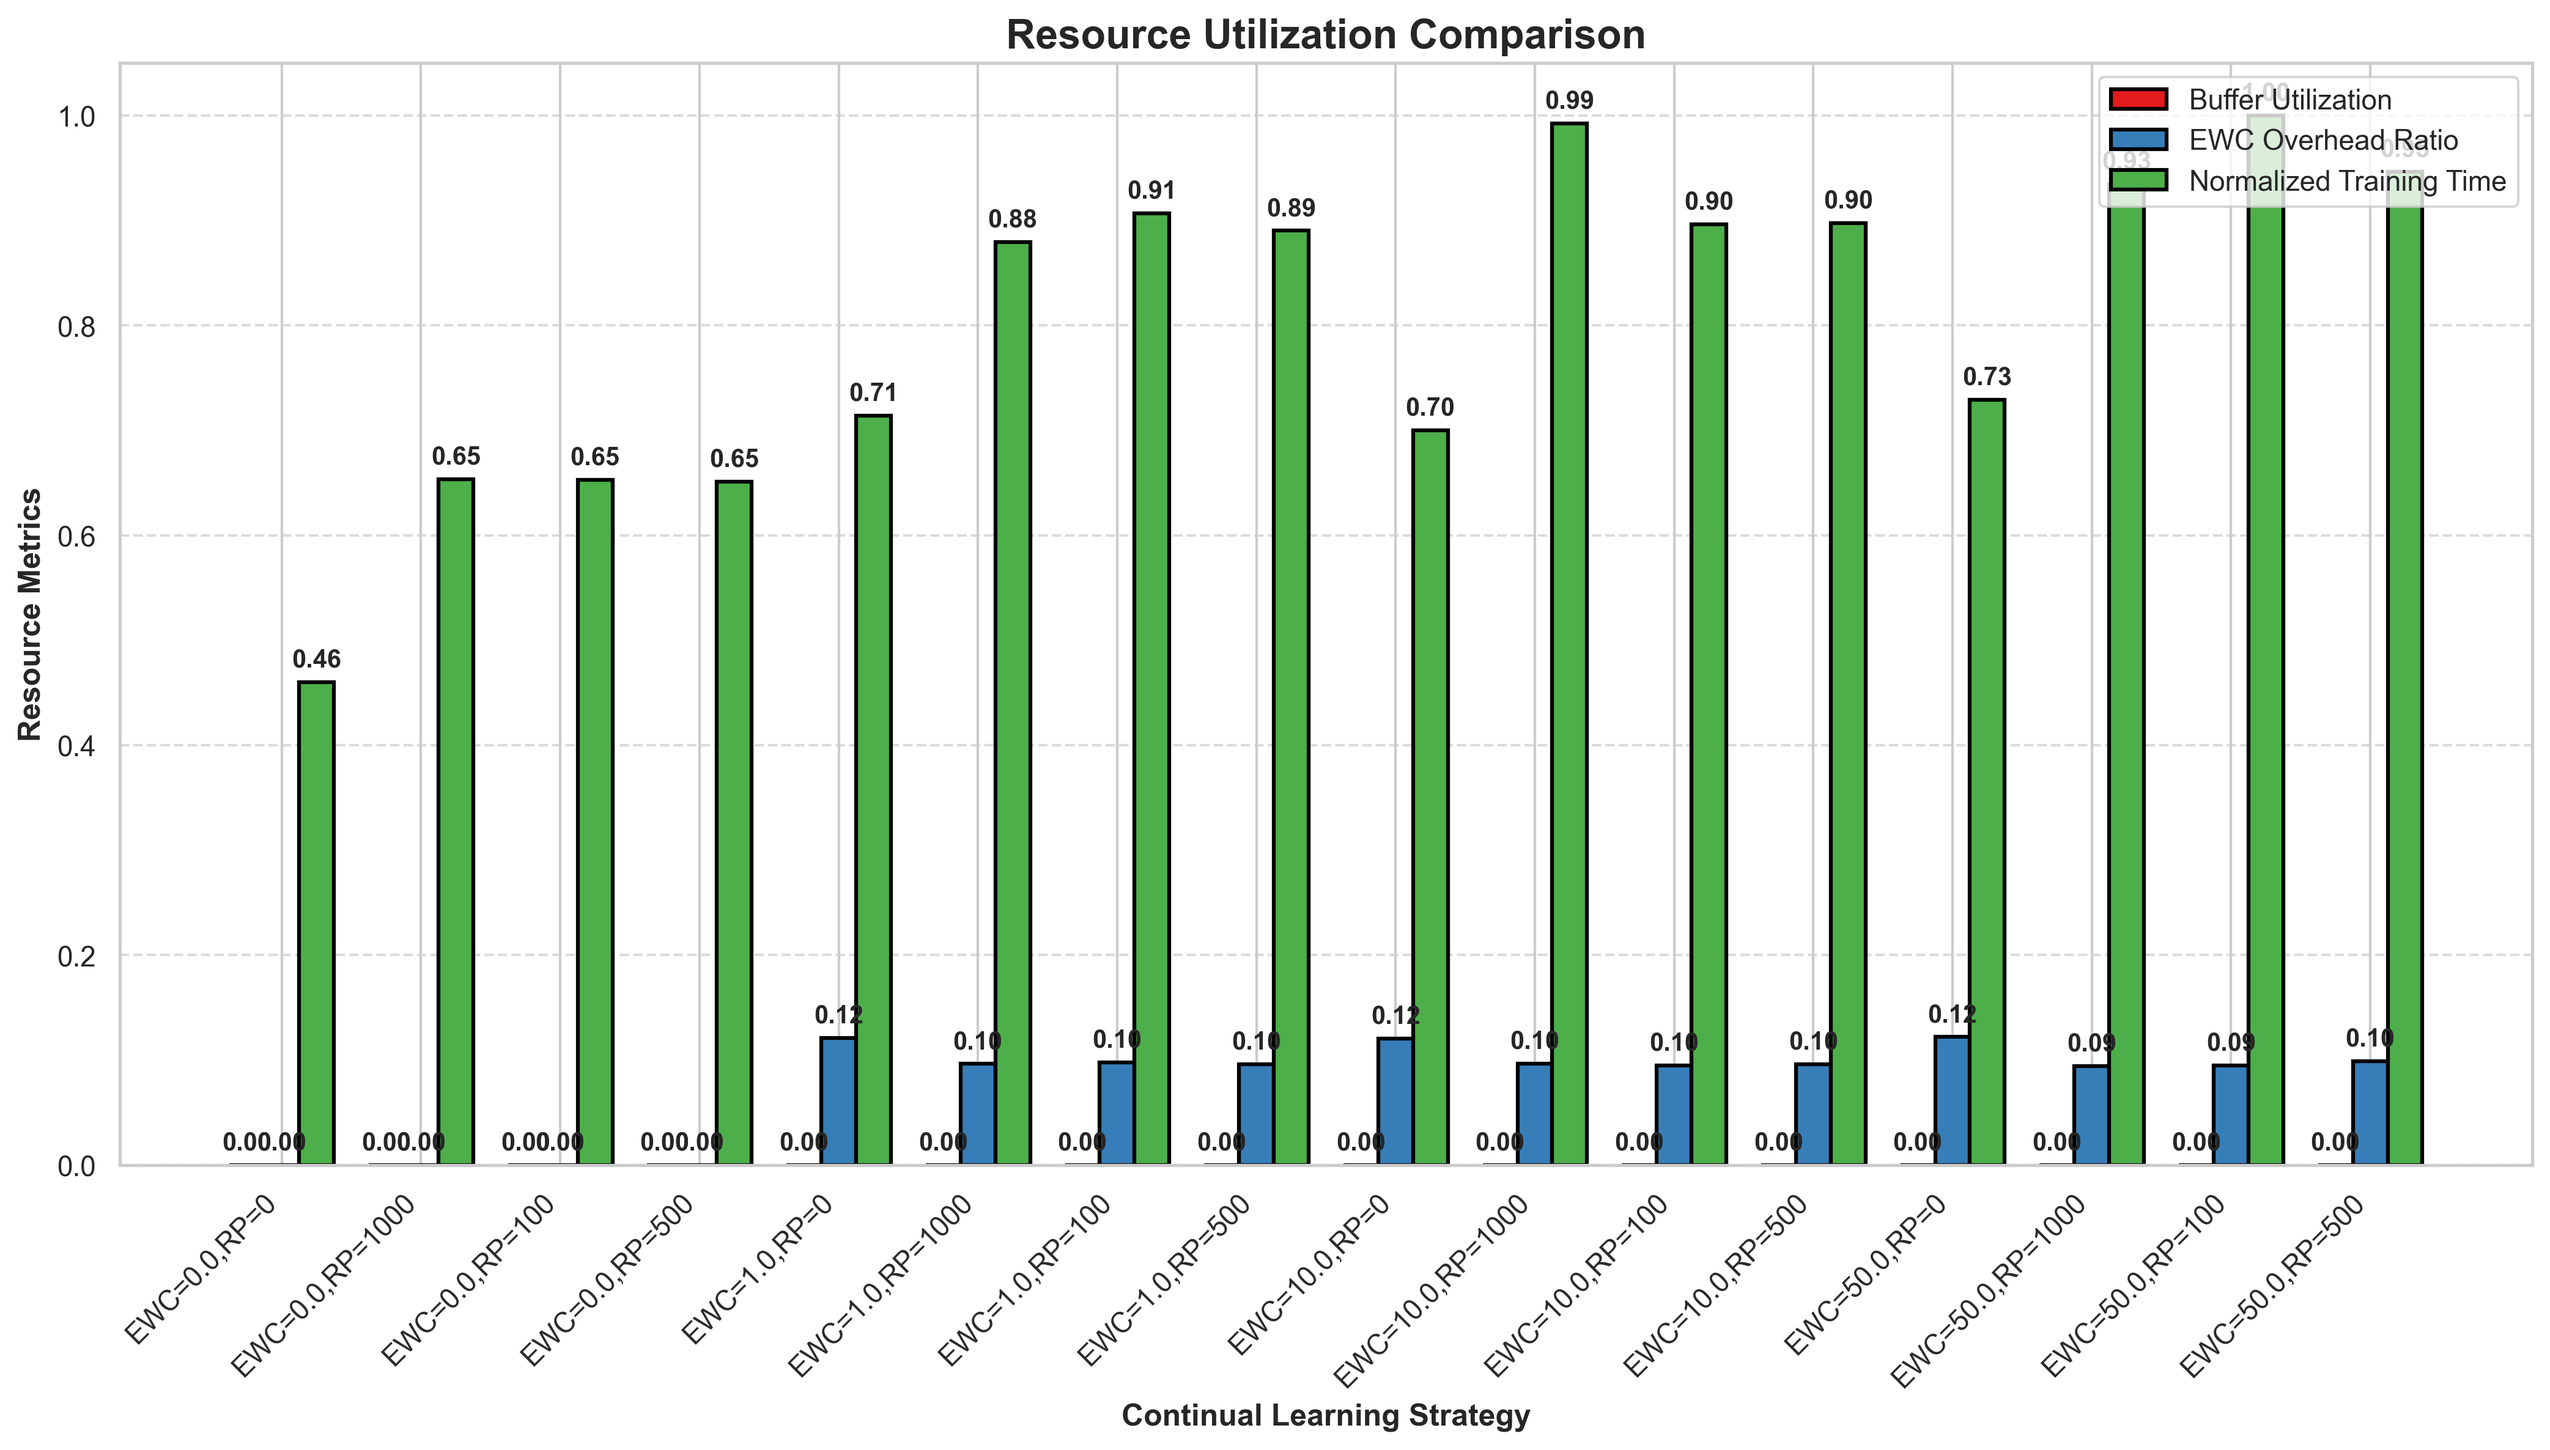
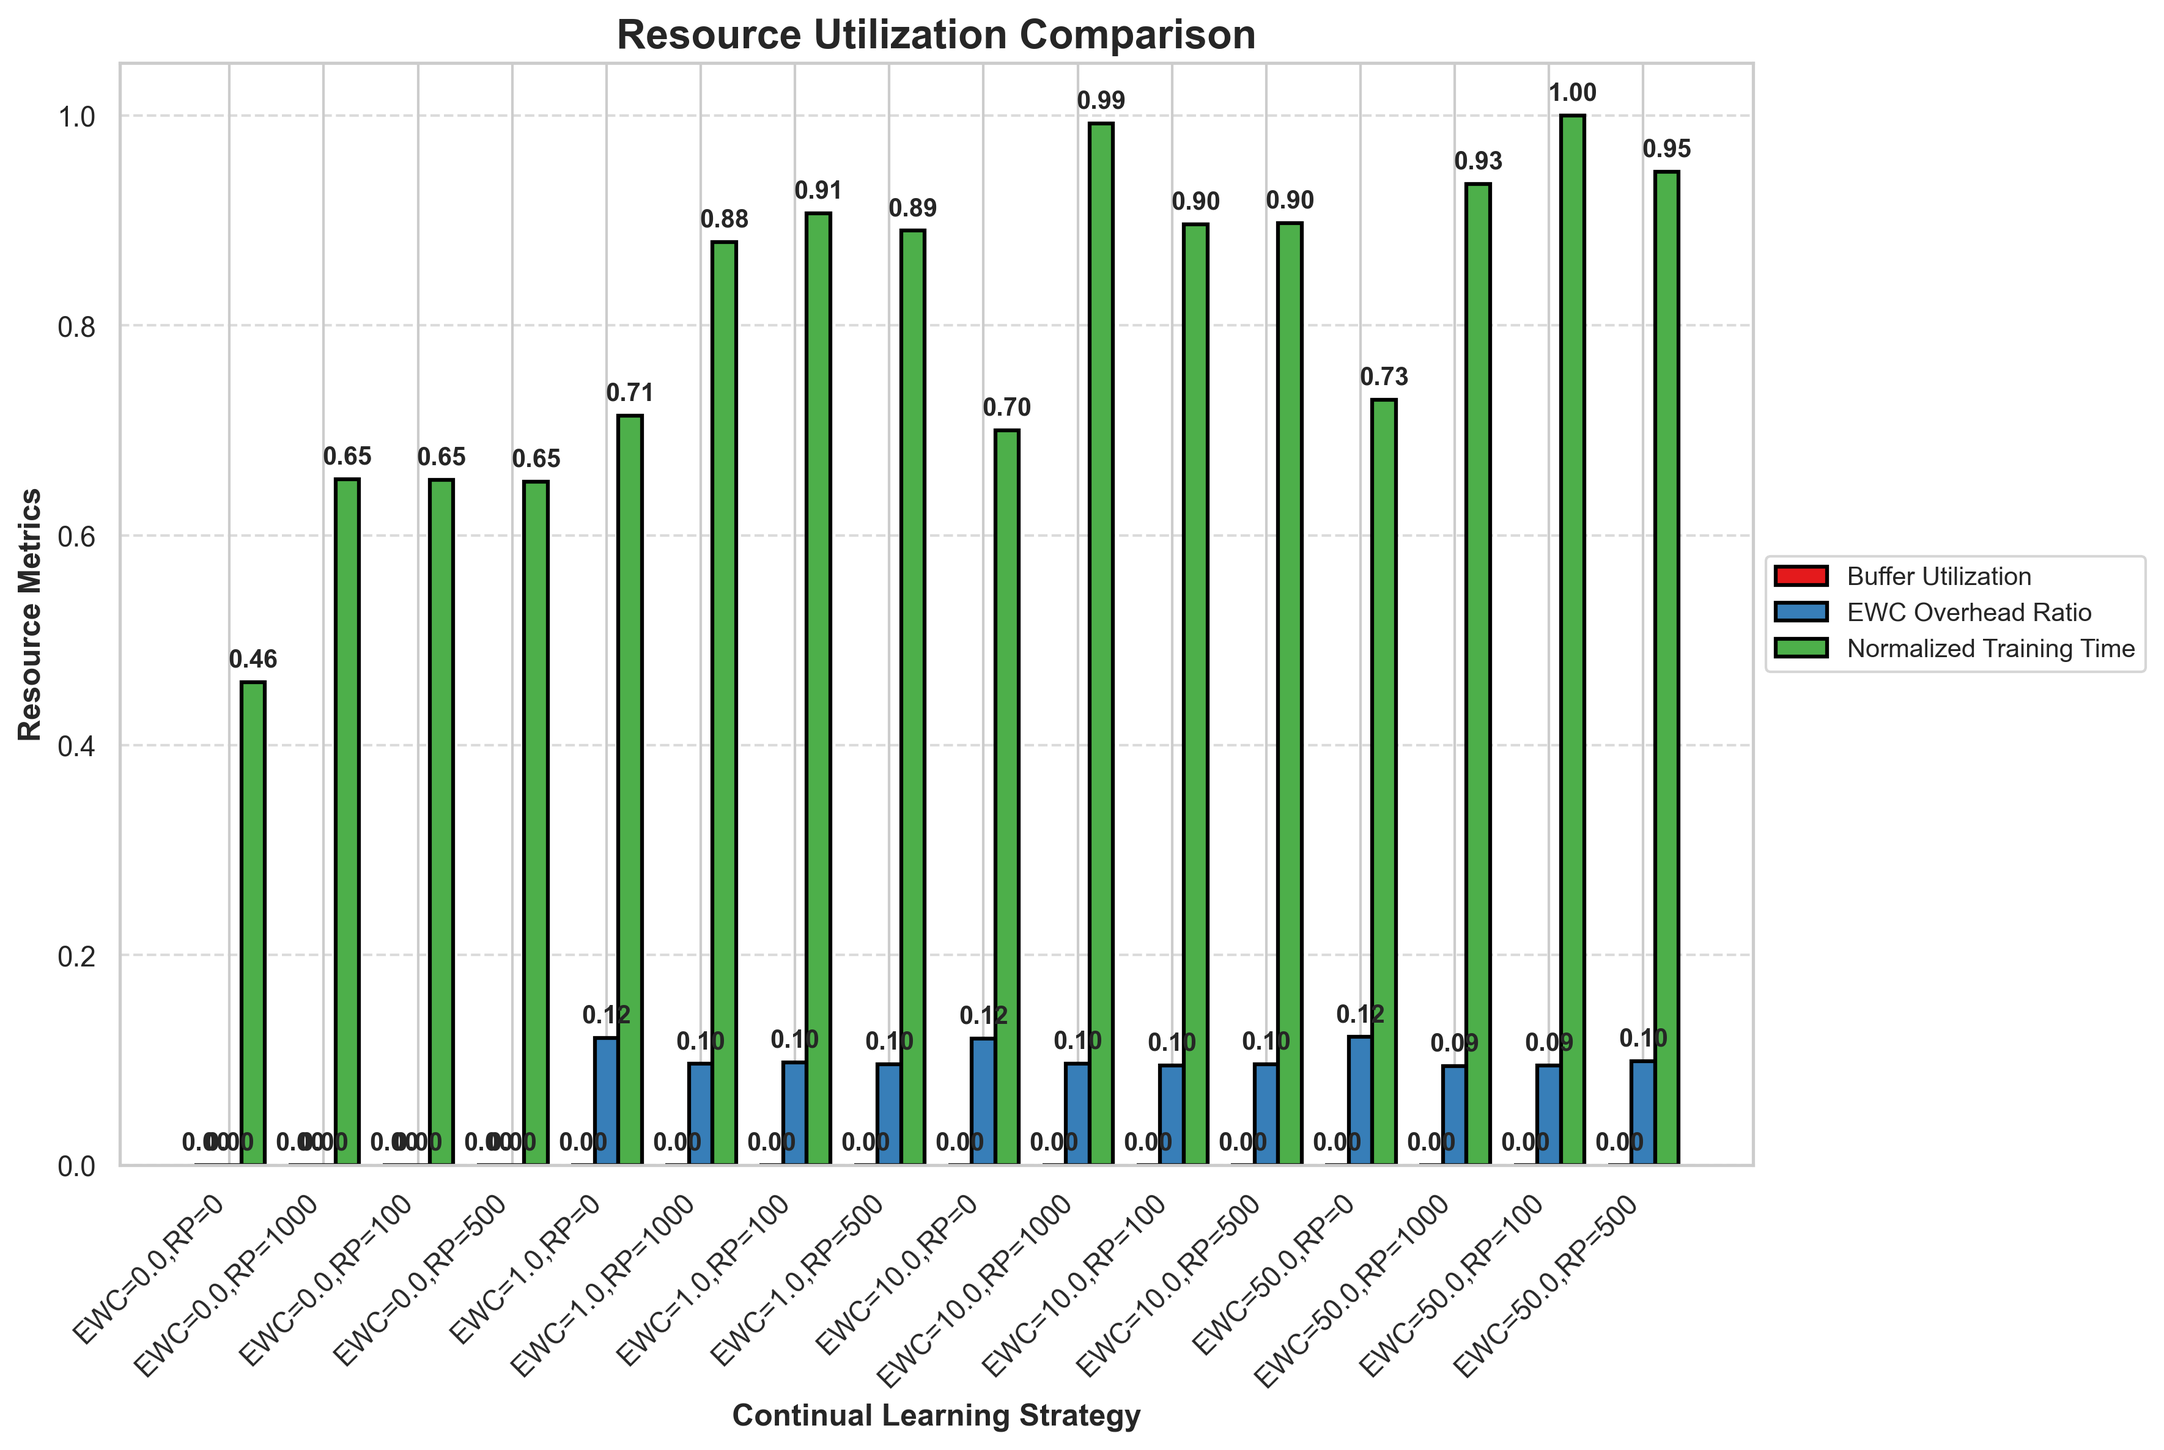
latest commit

diff --git a/enhanced_visualization.py b/enhanced_visualization.py
@@ -323,8 +323,8 @@ def plot_transfer_metrics(all_data, strategies, output_dir):
     plt.xticks(x, strategies, rotation=45, ha='right')
     plt.axhline(y=0, color='black', linestyle='-', alpha=0.3)
     plt.grid(axis='y', linestyle='--', alpha=0.7)
-    plt.legend(loc='upper right')
-    plt.tight_layout()
+    plt.legend(loc='center left', bbox_to_anchor=(1, 0.5), fontsize=10)
+    plt.tight_layout(rect=[0, 0, 0.85, 1])
     
     plt.savefig(os.path.join(output_dir, 'transfer_metrics.png'), dpi=300, bbox_inches='tight')
     plt.close()
@@ -365,7 +365,7 @@ def plot_plasticity_stability_metrics(all_data, strategies, output_dir):
             ps_ratio.append(0)
     
     # Create the plot
-    plt.figure(figsize=(14, 8))
+    plt.figure(figsize=(18, 8))
     x = np.arange(len(strategies))
     width = 0.25
     
@@ -394,8 +394,8 @@ def plot_plasticity_stability_metrics(all_data, strategies, output_dir):
     plt.xticks(x, strategies, rotation=45, ha='right')
     plt.axhline(y=1.0, color='black', linestyle='--', alpha=0.5, label='Perfect Balance')
     plt.grid(axis='y', linestyle='--', alpha=0.7)
-    plt.legend(loc='upper right')
-    plt.tight_layout()
+    plt.legend(loc='center left', bbox_to_anchor=(1, 0.5), fontsize=10)
+    plt.tight_layout(rect=[0, 0, 0.85, 1])
     
     plt.savefig(os.path.join(output_dir, 'plasticity_stability_metrics.png'), dpi=300, bbox_inches='tight')
     plt.close()
@@ -468,8 +468,8 @@ def plot_resource_metrics(all_data, strategies, output_dir):
     plt.title('Resource Utilization Comparison', fontsize=16, fontweight='bold')
     plt.xticks(x, strategies, rotation=45, ha='right')
     plt.grid(axis='y', linestyle='--', alpha=0.7)
-    plt.legend(loc='upper right')
-    plt.tight_layout()
+    plt.legend(loc='center left', bbox_to_anchor=(1, 0.5), fontsize=10)
+    plt.tight_layout(rect=[0, 0, 0.85, 1])
     
     plt.savefig(os.path.join(output_dir, 'resource_metrics.png'), dpi=300, bbox_inches='tight')
     plt.close()
@@ -511,7 +511,7 @@ def plot_domain_performance(all_data, strategies, output_dir):
                 domain_accuracies[domain].append(0)
     
     # Create the plot
-    plt.figure(figsize=(16, 10))
+    plt.figure(figsize=(20, 10))
     
     # Set up bar positions
     num_domains = len(all_domains)
@@ -532,9 +532,9 @@ def plot_domain_performance(all_data, strategies, output_dir):
     plt.ylabel('Final Accuracy', fontsize=12, fontweight='bold')
     plt.title('Final Accuracy Across Domains', fontsize=16, fontweight='bold')
     plt.xticks(np.arange(num_domains), all_domains, rotation=45, ha='right')
-    plt.legend(loc='upper right')
+    plt.legend(loc='center left', bbox_to_anchor=(1, 0.5), fontsize=10)
     plt.grid(axis='y', linestyle='--', alpha=0.7)
-    plt.tight_layout()
+    plt.tight_layout(rect=[0, 0, 0.85, 1]) 
     
     plt.savefig(os.path.join(output_dir, 'domain_performance.png'), dpi=300, bbox_inches='tight')
     plt.close()
